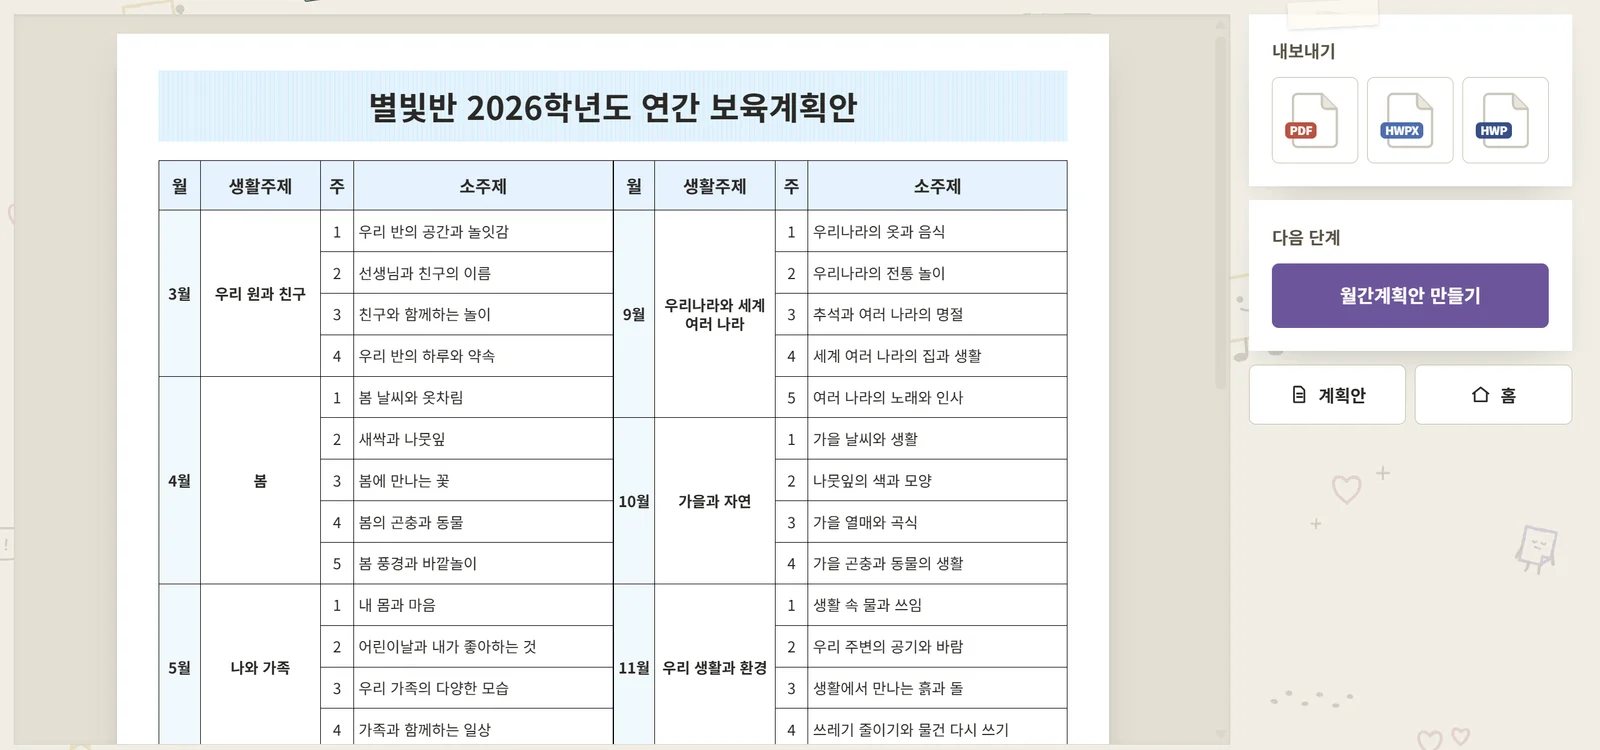
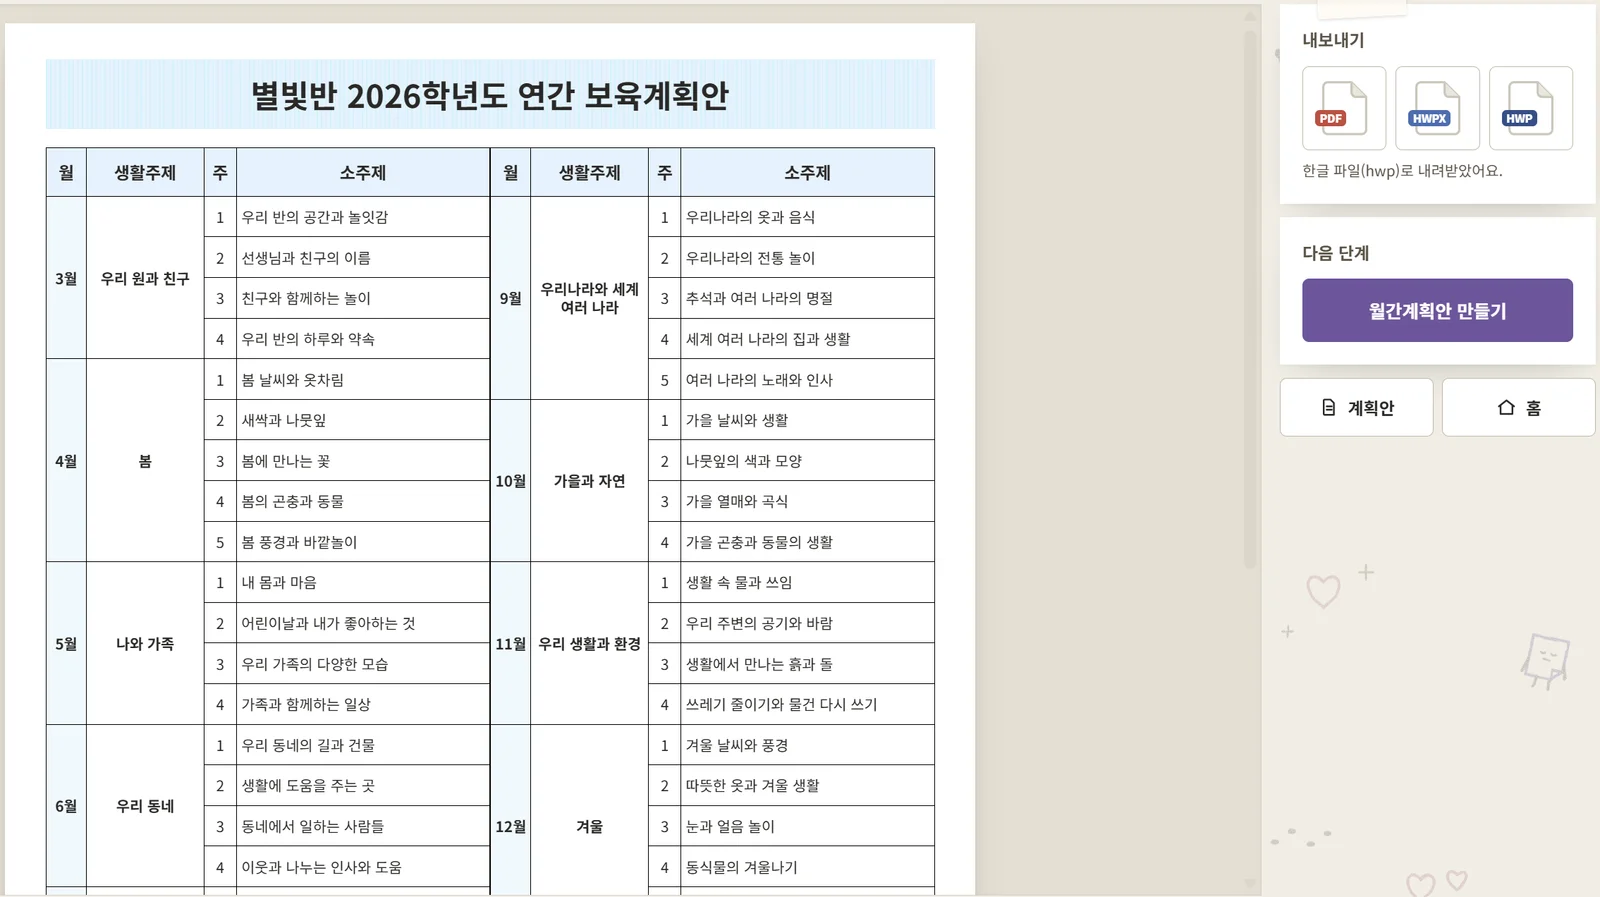
docs: [수린] 연간 계획안 캡처를 6월 · 12월까지 보이는 화면으로 다시 바꾼다
- 1600×897(1.78:1) — 월간 캡처(1.64:1)와 비율이 가까워 랜딩에서 넘길 때 높이 변화가 작다
- 랜딩 Image 높이 750 → 897

diff --git a/frontend/components/landing/InteractiveLanding.tsx b/frontend/components/landing/InteractiveLanding.tsx
@@ -715,7 +715,7 @@ export default function InteractiveLanding() {
                   src="/landing/v2/plan-annual.webp"
                   alt="쌤플에서 확정한 2026학년도 연간 보육계획안 실제 화면"
                   width={1600}
-                  height={750}
+                  height={897}
                   sizes="(max-width: 900px) 92vw, 640px"
                 />
                 <Image
